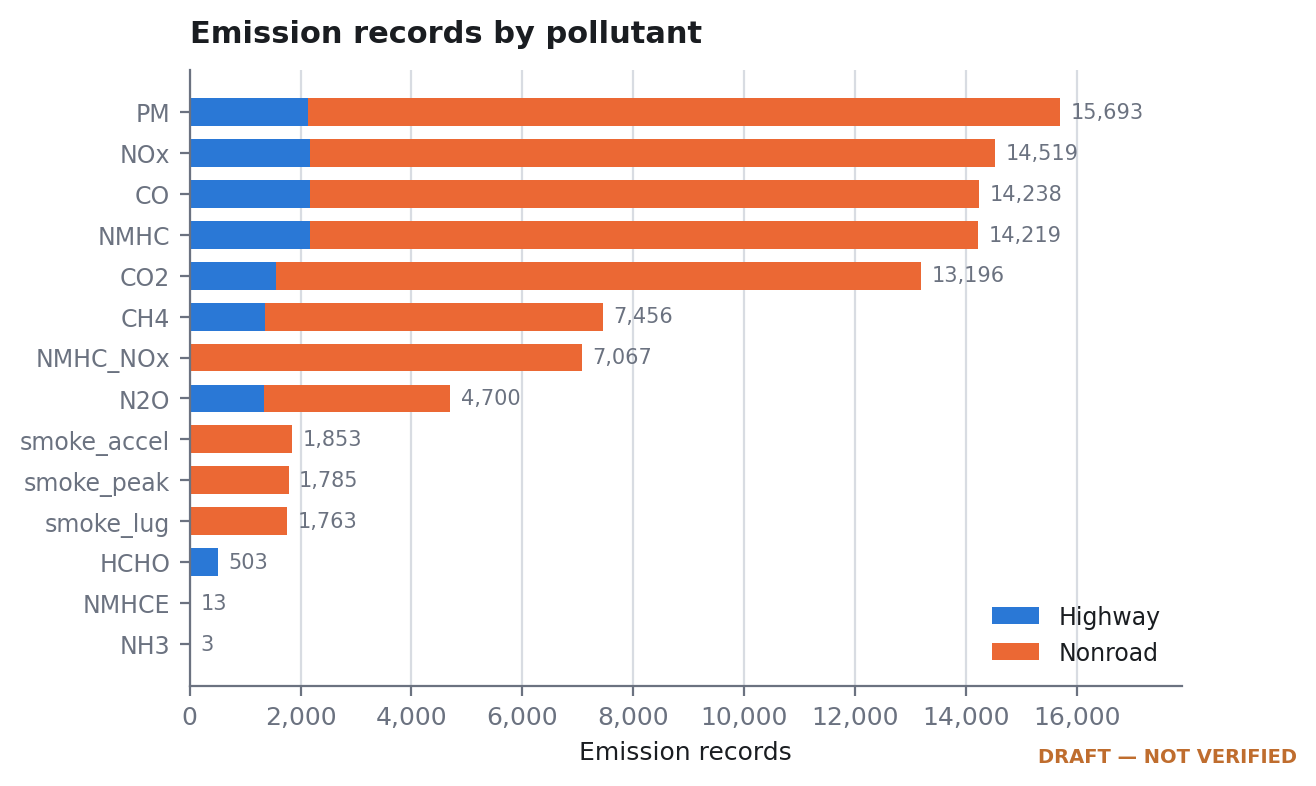
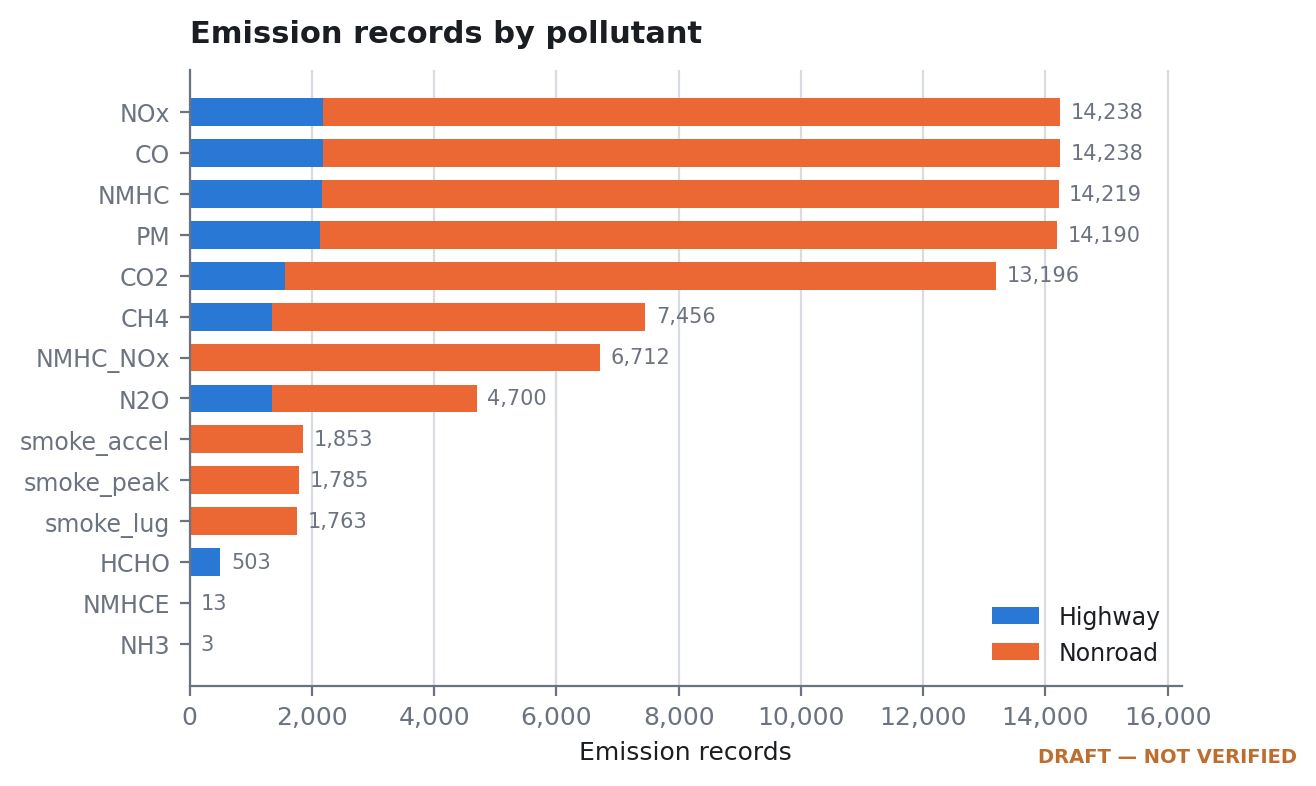
Fix FEL merge duplicating 2,139 rows; evidence the highway units claim
TWO DEFECTS FOUND IN AN ADVERSARIAL REVIEW BEFORE PUBLICATION.

1. The nonroad FEL merge keyed on (model_year, engine_family, pollutant).
   1,487 of 7,925 families occupy more than one source row - different engine
   codes, up to 34 rows for a single family - so that key matched several FEL
   entries and the merge fanned every measurement row out to match. Result:
   2,139 phantom rows. Real values, duplicated, which is worse than missing
   ones because nothing downstream looks wrong.

   Now merged on source-row identity, carried through the wide-to-long melt.
   The script aborts if the row count changes across the merge.
   Emission rows: 83,584 -> 94,869 total (nonroad 83,584 -> 81,445).

2. The highway source file states NO units anywhere - its headers are bare
   ('TR Cert Result', 'Transient Standard'). g/bhp-hr was my assertion, not
   something read from the data. It happens to be right, but the reasoning
   was the same kind that put a European fuel standard into the Atlas.

   Now tested rather than asserted: US heavy-duty highway standards have known
   values in g/bhp-hr, and the modal standard per pollutant matches them
   exactly - NOx 0.20, PM 0.01, NMHC 0.14, CO 15.5. In g/kW-hr those would be
   0.27, 0.013, 0.19, 20.8, so the test is decisive.

Also checked and found sound: the hp->kW constant (truncated at the 11th
significant figure, immaterial), the carryover lineage resolution, the
pollutant vocabulary, and the negative-value flagging.

diff --git a/scripts/03_harmonize_nonroad.py b/scripts/03_harmonize_nonroad.py
@@ -142,6 +142,10 @@ def main():
         pol = NONROAD_POLLUTANT_MAP.get(sub) or SMOKE_SUBS.get(sub)
         block = pd.DataFrame({
             "panel": "nonroad",
+            # Source row identity. 1,487 families occupy more than one source row
+            # (different engine codes, up to 34 rows for one family), so a family
+            # name alone does not identify a measurement's origin.
+            "src_row": df.index,
             "model_year": df[0],
             "engine_family": df[1],
             "engine_code": df[40] if 40 in df.columns else pd.NA,
@@ -160,12 +164,25 @@ def main():
     report["long_empty_dropped"] = before - len(em)
 
     # FEL is a limit, not a measured result: move it to its own column.
-    fel = em[em["test_type"] == "fel"][
-        ["model_year", "engine_family", "pollutant", "cert_result"]
-    ].rename(columns={"cert_result": "fel"})
+    #
+    # Merge on the SOURCE ROW, not on (model_year, engine_family, pollutant). An
+    # earlier version keyed on the family and silently multiplied rows: 1,487
+    # families occupy more than one source row (up to 34), so the family key
+    # produced several FEL entries per key and the merge fanned every measurement
+    # row out to match. That added 2,139 phantom rows - real values, duplicated,
+    # which is worse than missing ones because nothing looks wrong downstream.
+    fel = em[em["src_row"].notna()]
+    fel = fel[fel["test_type"] == "fel"][["src_row", "pollutant", "cert_result"]]
+    fel = fel.rename(columns={"cert_result": "fel"})
     em = em[em["test_type"] != "fel"].copy()
-    em = em.merge(fel, on=["model_year", "engine_family", "pollutant"], how="left")
-    report["fel_values"] = len(fel)
+    before_merge = len(em)
+    em = em.merge(fel, on=["src_row", "pollutant"], how="left")
+    if len(em) != before_merge:
+        raise SystemExit(f"FEL merge changed the row count: {before_merge} -> "
+                         f"{len(em)}. The merge key is not unique per measurement row.")
+    report["fel_values"] = int(len(fel))
+    report["fel_merge_row_count_stable"] = True
+    em = em.drop(columns=["src_row"])
 
     # Standards come from the family-level compliance standard string, which is
     # not pollutant-specific. Left null rather than guessed. [VERIFY]

diff --git a/scripts/05_combine_qa.py b/scripts/05_combine_qa.py
@@ -131,7 +131,20 @@ def main():
     checks["units_never_null"] = bool(em.units.notna().all())
     checks["no_mixed_units_within_panel"] = bool(
         em.groupby("panel").units.nunique().le(2).all())
-    checks["highway_units_correct"] = bool(
+    # The highway source file states NO units anywhere - the column headers are
+    # bare ("TR Cert Result", "Transient Standard"). g/bhp-hr was originally an
+    # assertion. It is now a test: US heavy-duty highway standards have known
+    # values in g/bhp-hr, and they are an order of magnitude away from the same
+    # standards expressed in g/kW-hr, so the modal standard per pollutant decides it.
+    KNOWN_G_BHP_HR = {"NOx": 0.20, "PM": 0.01, "NMHC": 0.14, "CO": 15.5}
+    hw_std = em[(em.panel == "highway") & em.standard.notna()]
+    modal = {p: float(g.standard.mode().iloc[0])
+             for p, g in hw_std.groupby("pollutant") if p in KNOWN_G_BHP_HR and len(g)}
+    S["highway_modal_standards"] = modal
+    S["highway_known_standards_g_bhp_hr"] = KNOWN_G_BHP_HR
+    checks["highway_units_evidenced_by_standards"] = all(
+        abs(modal.get(p, float("nan")) - v) < 1e-9 for p, v in KNOWN_G_BHP_HR.items())
+    checks["highway_units_labelled"] = bool(
         set(em.loc[em.panel == "highway", "units"].unique()) == {"g/bhp-hr"})
     checks["nonroad_units_correct"] = bool(
         set(em.loc[em.panel == "nonroad", "units"].unique()) <= {"g/kW-hr", "pct opacity"})

diff --git a/docs/VERIFICATION_CHECKLIST.md b/docs/VERIFICATION_CHECKLIST.md
@@ -14,7 +14,7 @@ judgement calls are not, which is the entire point.
 
 - [ ] Ran the pipeline from a clean checkout following `README.md`
 - [ ] `data/processed/stats.json` matches the one shipped in this package
-- [ ] All 9 integrity checks report PASS
+- [ ] All 10 integrity checks report PASS
 - [ ] The SHA-256 hashes in `logs/provenance.jsonl` match the EPA files I downloaded
 
 Expected headline figures:
@@ -23,7 +23,7 @@ Expected headline figures:
 |---|---|
 | Engine families | 8,627 (702 highway, 7,925 nonroad) |
 | Configurations | 9,794 |
-| Emission records | 97,008 |
+| Emission records | 94,869 |
 | Manufacturers | 108 |
 | Distinct lineages | 2,541 |
 
@@ -71,11 +71,11 @@ up by hand in EPA's interactive certificate data tool.
 | | |
 |---|---|
 | Panel | nonroad |
-| Engine family | `LCPXL08.8NZS` |
+| Engine family | `LCEXL60.0AAB` |
 | Model year | 2020 |
 | Pollutant | NOx |
 | Test type | steady_state |
-| **CIDEX says** | **3.36 g/kW-hr** |
+| **CIDEX says** | **0.48 g/kW-hr** |
 
 - [ ] Looked this family up in EPA's interactive certificate tool
 - [ ] The value above matches, or I have recorded what it actually says: ______________

diff --git a/README.md b/README.md
@@ -7,7 +7,7 @@
 A harmonized engine-family-level panel of US EPA certification data for heavy-duty
 highway and nonroad compression-ignition engines.
 
-8,627 engine families · 97,008 emission records ·
+8,627 engine families · 94,869 emission records ·
 108 manufacturers · MY2011–2027
 
 Imafidon, Osariemen · [ORCID 0009-0006-3069-4674](https://orcid.org/0009-0006-3069-4674) · Independent Researcher
@@ -67,7 +67,7 @@ the pipeline writes. Nothing is typed by hand, so the prose cannot drift from th
 |---|---|---|
 | `cidex_family.csv` | 8,627 | One row per (panel, model year, engine family) |
 | `cidex_config.csv` | 9,794 | Engine configurations within a family |
-| `cidex_emissions.csv` | 97,008 | One row per (family, pollutant, test type) |
+| `cidex_emissions.csv` | 94,869 | One row per (family, pollutant, test type) |
 | `cidex_carryover.csv` | 7,925 | Resolved nonroad certification lineage |
 
 Parquet mirrors are written alongside. See [`docs/CODEBOOK.md`](docs/CODEBOOK.md) for

diff --git a/docs/LIMITATIONS.md b/docs/LIMITATIONS.md
@@ -16,8 +16,8 @@ converting is deliberately left with the user.
 
 ## 2. 50 negative certification results
 
-50 rows (0.0515% of
-97,008), across 18 engine families,
+50 rows (0.0527% of
+94,869), across 18 engine families,
 all in the nonroad panel, carry a negative
 `cert_result`. An emission rate cannot be physically negative.
 
@@ -99,7 +99,8 @@ evidence that the values match EPA — that is what the verification gate is for
 - PASS — `no_emission_row_without_family`
 - PASS — `units_never_null`
 - PASS — `no_mixed_units_within_panel`
-- PASS — `highway_units_correct`
+- PASS — `highway_units_evidenced_by_standards`
+- PASS — `highway_units_labelled`
 - PASS — `nonroad_units_correct`
 - PASS — `carryover_no_true_cycles`
 - PASS — `every_negative_value_is_flagged`

diff --git a/docs/CODEBOOK.md b/docs/CODEBOOK.md
@@ -51,9 +51,9 @@ reconstructed.
 | `NH3` | 3 |
 | `NMHC` | 14,219 |
 | `NMHCE` | 13 |
-| `NMHC_NOx` | 7,067 |
-| `NOx` | 14,519 |
-| `PM` | 15,693 |
+| `NMHC_NOx` | 6,712 |
+| `NOx` | 14,238 |
+| `PM` | 14,190 |
 | `smoke_accel` | 1,853 |
 | `smoke_lug` | 1,763 |
 | `smoke_peak` | 1,785 |
@@ -110,7 +110,7 @@ reconstructed.
 
 ### `cidex_emissions.csv`
 
-97,008 rows.
+94,869 rows.
 
 | Column | Type | Description |
 |---|---|---|
